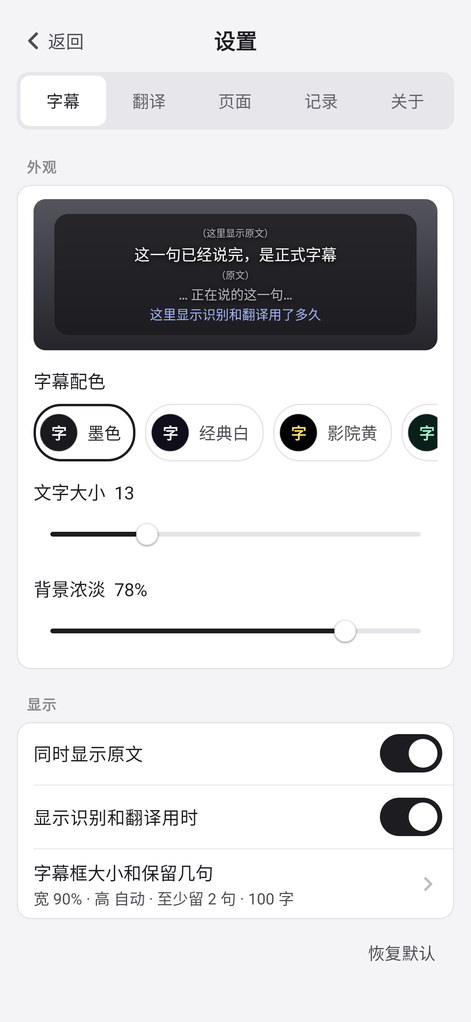
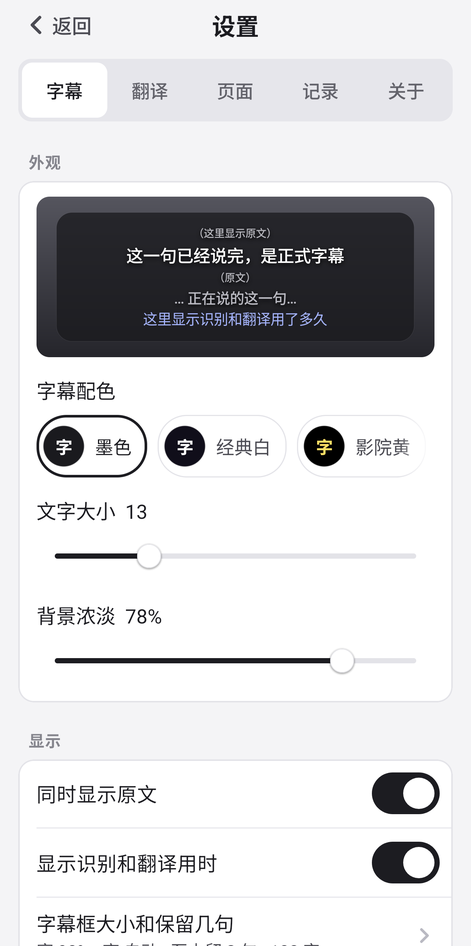
README: Android and desktop screenshots in two rows; wording for all three platforms
Three screenshots each (home, 设置 · 字幕, 设置 · 翻译), the Android ones retaken with the
current build and the desktop ones from the Mac app; the unused older screenshots removed.
Allow/start steps, the app-capture FAQ and the privacy line now cover phone and computer.

diff --git a/README.md b/README.md
@@ -19,36 +19,26 @@
 ## 界面一览
 
 <table>
+  <tr><th colspan="3">Android</th></tr>
   <tr>
-    <td><img src="docs/images/screens/home.png" width="200" alt="首页"></td>
-    <td><img src="docs/images/screens/overlay.png" width="300" alt="悬浮字幕（点一下出工具栏）"></td>
-    <td><img src="docs/images/screens/caption.png" width="200" alt="设置 · 字幕"></td>
-    <td><img src="docs/images/screens/size.png" width="200" alt="字幕框大小和保留几句"></td>
-    <td><img src="docs/images/screens/translate.png" width="200" alt="设置 · 翻译（LLM API）"></td>
-    <td><img src="docs/images/screens/page-dark.png" width="200" alt="设置 · 页面（夜间）"></td>
-    <td><img src="docs/images/screens/records.png" width="200" alt="设置 · 记录"></td>
-    <td><img src="docs/images/screens/about.png" width="200" alt="设置 · 关于"></td>
-    <td><img src="docs/images/screens/home-dark.png" width="200" alt="首页（夜间）"></td>
+    <td align="center" valign="top"><img src="docs/images/screens/home.png" width="240" alt="Android · 首页"><br>首页</td>
+    <td align="center" valign="top"><img src="docs/images/screens/caption.png" width="240" alt="Android · 设置 · 字幕"><br>设置 · 字幕</td>
+    <td align="center" valign="top"><img src="docs/images/screens/translate.png" width="240" alt="Android · 设置 · 翻译"><br>设置 · 翻译</td>
   </tr>
+  <tr><th colspan="3">桌面端（Mac）</th></tr>
   <tr>
-    <td align="center">首页</td>
-    <td align="center">悬浮字幕（点一下出工具栏）</td>
-    <td align="center">设置 · 字幕</td>
-    <td align="center">字幕框大小和保留几句</td>
-    <td align="center">设置 · 翻译（LLM API）</td>
-    <td align="center">设置 · 页面（夜间）</td>
-    <td align="center">设置 · 记录</td>
-    <td align="center">设置 · 关于</td>
-    <td align="center">首页（夜间）</td>
+    <td align="center" valign="top"><img src="docs/images/screens/desktop/home.png" width="260" alt="桌面端（Mac） · 首页"><br>首页</td>
+    <td align="center" valign="top"><img src="docs/images/screens/desktop/caption.png" width="260" alt="桌面端（Mac） · 设置 · 字幕"><br>设置 · 字幕</td>
+    <td align="center" valign="top"><img src="docs/images/screens/desktop/translate.png" width="260" alt="桌面端（Mac） · 设置 · 翻译"><br>设置 · 翻译</td>
   </tr>
 </table>
 
 ## 它能做什么
 
-- **大多数 App 都能用**：B 站、YouTube、直播软件、浏览器……适用于允许录制播放声音的 App；少数 App 和有版权保护的视频不支持。
+- **大多数 App 都能用**：B 站、YouTube、直播软件、浏览器……手机上适用于允许录制播放声音的 App（少数 App 和有版权保护的视频不支持）；电脑上听的是整台电脑播放出来的声音。
 - **字幕浮在画面上**：像电影字幕一样浮在视频上方，可以拖到任何位置，大小、颜色、透明度都能调。
 - **边听边出**：说话人一开口，字幕就开始出现；一句说完，再变成正式字幕。
-- **听写在手机上完成**：声音只在你的手机里识别成文字，**不会上传**。
+- **听写在你的设备上完成**：声音只在你的手机或电脑里识别成文字，**不会上传**。
 - **想翻成什么语言都行**：列表里有中文、英语、日语、韩语，其他语言（比如法语、繁体中文、粤语）选「自己填…」写上就行。
 - **告诉翻译你在看什么**：自带「B站 VTuber 直播」，也可以自己建场景：写几句背景说明，给常见词定好译法（术语表），还能让 LLM 按说明自动生成一批术语。
 - **用你自己的 LLM API 翻译**：填上任意 OpenAI 兼容服务的地址、模型 ID 和 key（例如 DeepSeek、通义千问），按你自己的用量计费。
@@ -56,8 +46,8 @@
 ## 三步开始
 
 1. **填 LLM API**：第一次打开，首页会提示「先填翻译用的 LLM API」，点「去填写」（或者「设置 → 翻译」），填好服务地址、模型 ID 和 API Key，点「测试连接」。模型要能关闭思考，并且尽量选回复快的（见下面的常见问题）。
-2. **允许**：按提示允许「听 App 的声音」和「在屏幕上显示字幕」。
-3. **开始**：点「开始字幕」，在弹出的窗口里选你要看的 App，回到视频就能看到字幕。
+2. **允许**：手机上按提示允许「听 App 的声音」和「在屏幕上显示字幕」；Mac 第一次开始字幕时允许「录制系统声音」；Windows 不用授权。
+3. **开始**：点「开始字幕」。手机上在弹出的窗口里选你要看的 App；电脑上直接听整台电脑的声音。回到视频就能看到字幕。
 
 语音识别模型已经装在 App 里，不用另外下载。
 
@@ -65,12 +55,16 @@
 
 ### 字幕上的小技巧
 
+手机和电脑上用法一样（电脑上「点」就是用鼠标点）：
+
 - **按住拖动**：换字幕的位置。
 - **点一下字幕，再拖四个角上的小箭头**：改字幕框的宽度和高度（小箭头和工具栏一起出现、一起消失）。
 - **点一下字幕**：出现工具栏，可以调字号、调背景、切换「边听边出 / 说完再出」、开关原文和用时、锁定，或者停止。
 - **锁定**：位置和大小都固定，不能拖动也不能改大小；点字幕不再出工具栏，只在右下角出一个开锁按钮，点它解锁。
 
 ## 安装
+
+### Android 版
 
 - 系统要求：Android 10 及以上，arm64 手机。
 - 在 [Releases](../../releases) 页面下载 APK，在手机上打开安装（需要允许「安装未知应用」）。
@@ -101,14 +95,14 @@
 
 ## 常见问题
 
-**为什么有的 App 没有字幕？**
-有些 App（比如开启了版权保护的视频）不允许其他 App 听它的声音，这是 Android 系统的限制，这时不会出字幕。
+**为什么手机上有的 App 没有字幕？**
+有些 App（比如开启了版权保护的视频）不允许其他 App 听它的声音，这是 Android 系统的限制，这时不会出字幕。电脑上听的是整台电脑播放的声音，没有这个限制。
 
 **能听哪些语言？**
 现在能听日语和英语。在首页选好视频里说的语言，翻译会更准。
 
 **会上传我的声音吗？**
-不会。声音在手机上变成文字；翻译时只把识别出的文字发给你填的 LLM API。详见 [隐私说明](docs/privacy.md)。
+不会。声音在你的手机或电脑上变成文字；翻译时只把识别出的文字发给你填的 LLM API。详见 [隐私说明](docs/privacy.md)。
 
 **翻译模型怎么选？**
 必须是能关闭思考（深度思考 / reasoning）的模型，否则每句都要等很久；尽量选回复速度快的模型，字幕才跟得上。第一次用某个模型时，App 会自动试出关闭思考的参数并记住。

diff --git a/README.en.md b/README.en.md
@@ -19,36 +19,26 @@
 ## Screenshots
 
 <table>
+  <tr><th colspan="3">Android</th></tr>
   <tr>
-    <td><img src="docs/images/screens/home.png" width="200" alt="Home"></td>
-    <td><img src="docs/images/screens/overlay.png" width="300" alt="Floating subtitles (tap for the toolbar)"></td>
-    <td><img src="docs/images/screens/caption.png" width="200" alt="Settings · Subtitles"></td>
-    <td><img src="docs/images/screens/size.png" width="200" alt="Subtitle box size and kept sentences"></td>
-    <td><img src="docs/images/screens/translate.png" width="200" alt="Settings · Translation"></td>
-    <td><img src="docs/images/screens/page-dark.png" width="200" alt="Settings · Page (dark)"></td>
-    <td><img src="docs/images/screens/records.png" width="200" alt="Settings · Records"></td>
-    <td><img src="docs/images/screens/about.png" width="200" alt="Settings · About"></td>
-    <td><img src="docs/images/screens/home-dark.png" width="200" alt="Home (dark)"></td>
+    <td align="center" valign="top"><img src="docs/images/screens/home.png" width="240" alt="Android · Home"><br>Home</td>
+    <td align="center" valign="top"><img src="docs/images/screens/caption.png" width="240" alt="Android · Settings · Subtitles"><br>Settings · Subtitles</td>
+    <td align="center" valign="top"><img src="docs/images/screens/translate.png" width="240" alt="Android · Settings · Translation"><br>Settings · Translation</td>
   </tr>
+  <tr><th colspan="3">Desktop (Mac)</th></tr>
   <tr>
-    <td align="center">Home</td>
-    <td align="center">Floating subtitles (tap for the toolbar)</td>
-    <td align="center">Settings · Subtitles</td>
-    <td align="center">Subtitle box size and kept sentences</td>
-    <td align="center">Settings · Translation</td>
-    <td align="center">Settings · Page (dark)</td>
-    <td align="center">Settings · Records</td>
-    <td align="center">Settings · About</td>
-    <td align="center">Home (dark)</td>
+    <td align="center" valign="top"><img src="docs/images/screens/desktop/home.png" width="260" alt="Desktop (Mac) · Home"><br>Home</td>
+    <td align="center" valign="top"><img src="docs/images/screens/desktop/caption.png" width="260" alt="Desktop (Mac) · Settings · Subtitles"><br>Settings · Subtitles</td>
+    <td align="center" valign="top"><img src="docs/images/screens/desktop/translate.png" width="260" alt="Desktop (Mac) · Settings · Translation"><br>Settings · Translation</td>
   </tr>
 </table>
 
 ## What it does
 
-- **Works with most apps**: Bilibili, YouTube, streaming apps, the browser… any app that allows its playback to be captured; a few apps and DRM-protected video do not.
+- **Works with most apps**: Bilibili, YouTube, streaming apps, the browser… On the phone, any app that allows its playback to be captured (a few apps and DRM-protected video do not); on a computer, everything it plays.
 - **Floating subtitles**: shown over the video like movie subtitles; move them anywhere, change size, colour and background.
 - **As people speak**: text appears while someone is talking and becomes a final subtitle when the sentence ends.
-- **Speech stays on the phone**: audio is recognised on the device and **never uploaded**.
+- **Speech stays on your device**: audio is recognised on the phone or computer and **never uploaded**.
 - **Any caption language**: Chinese, English, Japanese and Korean in the list; for any other (e.g. French, Traditional Chinese, Cantonese) pick 自己填… and type it.
 - **Tell the translator what you watch**: a built-in Bilibili VTuber scene, or your own: a short background and a term list (source word, translation), which your LLM can also draft from the background.
 - **Bring your own translation model**: enter the address, model ID and key of any OpenAI-compatible service (e.g. DeepSeek, Qwen); you pay your provider for your own usage.
@@ -56,18 +46,20 @@
 ## Get started in three steps
 
 1. **Set up the LLM API**: on first launch the home screen asks for it; tap 去填写 (or go to Settings → 翻译), fill in the service address, model ID and API key, then tap 测试连接 (test). The model must be able to turn thinking off and should answer fast (see the FAQ).
-2. **Allow**: let the app hear other apps' sound and draw over other apps.
-3. **Start**: tap 开始字幕, pick the app you want to watch, and go back to your video.
+2. **Allow**: on the phone, let the app hear other apps' sound and draw over other apps; on a Mac, allow system audio recording the first time you start; Windows needs nothing.
+3. **Start**: tap 开始字幕. On the phone, pick the app you want to watch; a computer listens to everything it plays. Go back to your video.
 
 The speech recognition models ship inside the app; nothing else to download.
 
 Subtitle size, colours and translation options are in Settings.
 
-On the subtitle: **drag** to move · **tap** for the toolbar (text size, background, display mode, original text and timings on/off, lock, stop); while it is shown, **drag a corner mark** to resize · **locked**: position and size are fixed, a tap only shows an unlock button.
+On the subtitle (phone or computer; on a computer, a tap is a click): **drag** to move · **tap** for the toolbar (text size, background, display mode, original text and timings on/off, lock, stop); while it is shown, **drag a corner mark** to resize · **locked**: position and size are fixed, a tap only shows an unlock button.
 
 The app's interface is in Chinese.
 
 ## Install
+
+### Android
 
 - Android 10 or newer, arm64.
 - Download the APK from the [Releases](../../releases) page and open it on the phone (allow "install unknown apps").
@@ -98,14 +90,14 @@ The app's interface is in Chinese.
 
 ## FAQ
 
-**Why are there no subtitles for some apps?**
-Some apps (for example DRM-protected video) do not allow other apps to capture their audio. This is an Android restriction.
+**Why are there no subtitles for some apps on the phone?**
+Some apps (for example DRM-protected video) do not allow other apps to capture their audio. This is an Android restriction; a computer captures everything it plays.
 
 **Which spoken languages?**
 Japanese and English. Choosing the right one on the home screen makes the translation more accurate.
 
 **Is my audio uploaded?**
-No. Audio is turned into text on the phone; for translation only the recognised text is sent to the service you entered. See [docs/privacy.md](docs/privacy.md).
+No. Audio is turned into text on your phone or computer; for translation only the recognised text is sent to the service you entered. See [docs/privacy.md](docs/privacy.md).
 
 **Which translation model should I use?**
 One that can turn thinking (reasoning) off, otherwise every sentence takes a long wait; and preferably one that answers fast, so the subtitles keep up. The first time a model is used, the app finds out by itself how to turn its thinking off and remembers it.
